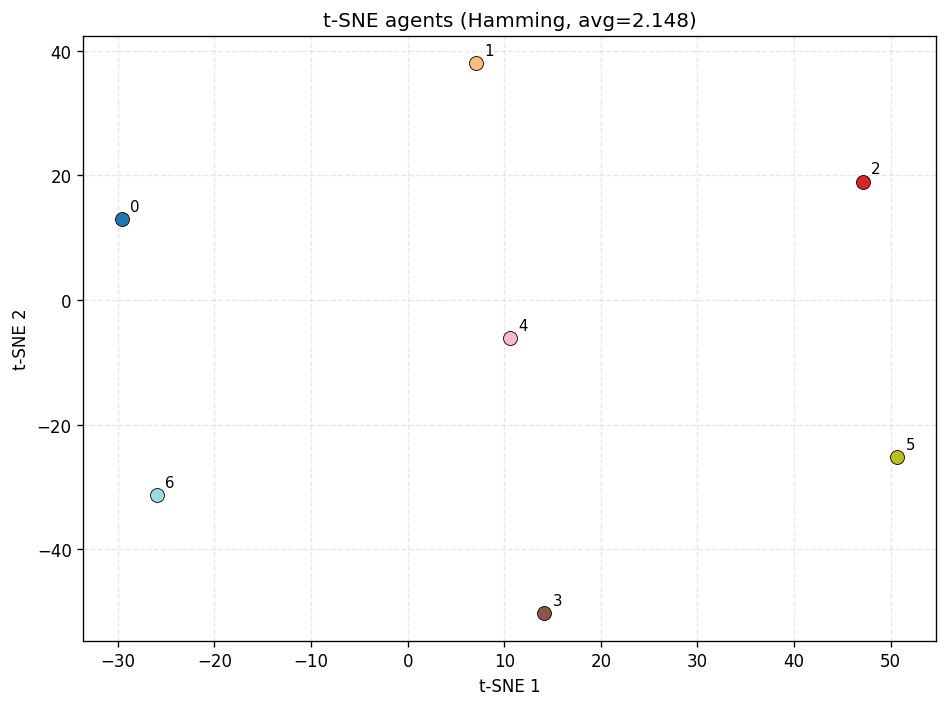
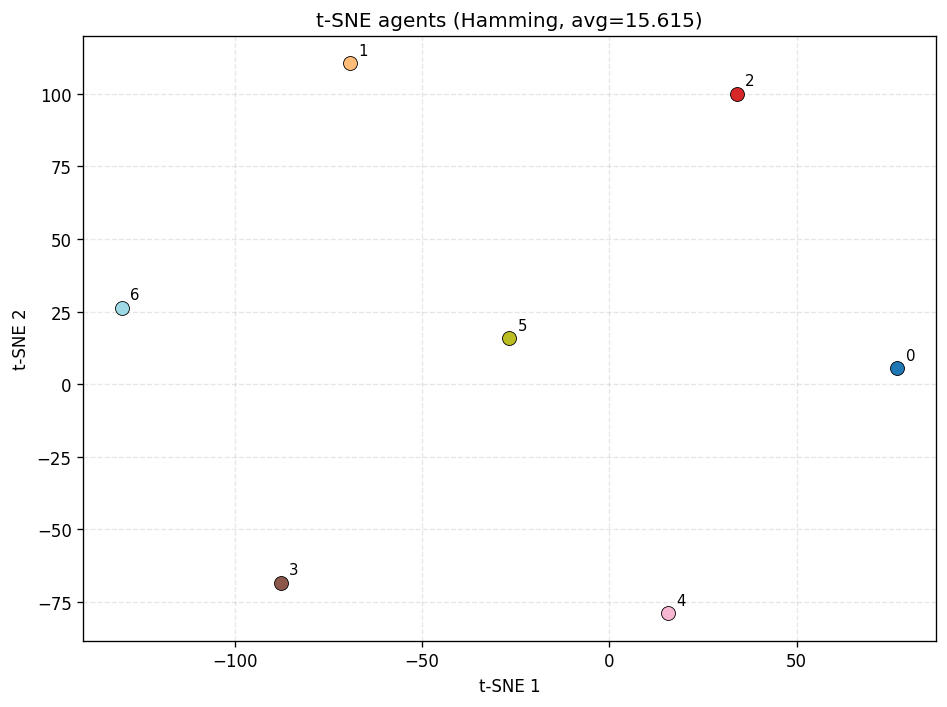
ajout range

diff --git a/source_code/main.py b/source_code/main.py
@@ -66,6 +66,15 @@ def main(cfg: DictConfig):
         except Exception:
             return None
 
+    def _get(*keys, default=None):
+        for key in keys:
+            v = agent_val(key)
+            if v is None:
+                v = cfg.get(key)
+            if v is not None:
+                return v
+        return default
+
     type_problem = cfg.problem.name if "problem" in cfg and "name" in cfg.problem else cfg.get("type_problem", "QUBO")
     type_problem = str(type_problem)
     type_problem_upper = type_problem.upper()
@@ -84,65 +93,45 @@ def main(cfg: DictConfig):
     nb_restarts = int(cfg.nb_restarts)
     nb_instances_test = int(cfg.nb_instances_test)
     seed = int(cfg.seed)
-    lambda_ = int(agent_val("lambda") or cfg.get("lambda") or cfg.get("lambda_") or 10)
+    lambda_ = int(_get("lambda", "lambda_", default=10))
     verbose = bool(cfg.get("verbose", True))
     budget = int(cfg.get("budget", 10000))
     visualization_enabled = bool(cfg.get("visualization", True))
-    advantage_cfg = agent_val("advantage") or cfg.get("advantage") or "baseline"
+    advantage_cfg = _get("advantage", default="baseline")
     if isinstance(advantage_cfg, DictConfig):
         advantage_cfg = OmegaConf.to_container(advantage_cfg, resolve=True)
-    no_interact = bool(agent_val("no_interact") or cfg.get("no_interact") or False)
-    no_repulsion = bool(agent_val("no_repulsion") or cfg.get("no_repulsion") or False)
-    decay_enabled = bool(agent_val("decay") or cfg.get("decay") or False)
-    enable_greedy_final = agent_val("enable_greedy_final")
-    if enable_greedy_final is None:
-        enable_greedy_final = cfg.get("enable_greedy_final", True)
-    enable_greedy_final = bool(enable_greedy_final)
-    M = int(agent_val("M") or cfg.get("M") or 1)
+    no_interact = bool(_get("no_interact", default=False))
+    no_repulsion = bool(_get("no_repulsion", default=False))
+    decay_enabled = bool(_get("decay", default=False))
+    enable_greedy_final = bool(_get("enable_greedy_final", default=True))
+    M = int(_get("M", default=1))
 
-    kernel_name = str(agent_val("kernel") or cfg.get("kernel") or "hk").lower()
+    kernel_name = str(_get("kernel", default="hk")).lower()
     kernel_cfg = _load_kernel_config(kernel_name, repo_root)
-    prob_eps_override = agent_val("prob_eps_clamp") or cfg.get("prob_eps_clamp")
+    prob_eps_override = _get("prob_eps_clamp")
     if prob_eps_override is not None:
         kernel_cfg["prob_eps_clamp"] = float(prob_eps_override)
-    natural_grad_override = agent_val("natural_grad") or cfg.get("natural_grad")
+    natural_grad_override = _get("natural_grad")
     if natural_grad_override is not None:
         kernel_cfg["natural_grad"] = bool(natural_grad_override)
-    bandwith_override = agent_val("bandwith_kernel") or cfg.get("bandwith_kernel")
+    bandwith_override = _get("bandwith_kernel")
     if bandwith_override is not None:
         kernel_cfg["bandwith_kernel"] = bandwith_override
 
     kernel_lr = kernel_cfg.get("epsilon_svgd")
     kernel_gamma = kernel_cfg.get("gamma")
-    epsilon_svgd = float(
-        agent_val("epsilon_svgd")
-        or cfg.get("epsilon_svgd")
-        or kernel_lr
-        or 0.5
-    )
-    svgd_gamma = float(
-        agent_val("gamma")
-        or cfg.get("gamma")
-        or kernel_gamma
-        or 10.0
-    )
+    _eps = _get("epsilon_svgd")
+    epsilon_svgd = float(_eps if _eps is not None else (kernel_lr if kernel_lr is not None else 0.5))
+    _gamma = _get("gamma")
+    svgd_gamma = float(_gamma if _gamma is not None else (kernel_gamma if kernel_gamma is not None else 10.0))
 
     decay_default_start_ratio = 0.0 if decay_enabled else 0.8
     decay_default_min_factor = 0.05 if decay_enabled else 0.1
-    decay_start_ratio = float(
-        agent_val("decay_start_ratio")
-        or cfg.get("decay_start_ratio")
-        or decay_default_start_ratio
-    )
-    decay_min_factor = float(
-        agent_val("min_factor")
-        or agent_val("decay_min_factor")
-        or cfg.get("min_factor")
-        or cfg.get("decay_min_factor")
-        or decay_default_min_factor
-    )
-    adaptive_lambda = bool(agent_val("adaptive_lambda") or cfg.get("adaptive_lambda") or False)
-    lr_lambda = float(agent_val("lr_lambda") or cfg.get("lr_lambda") or 0.1)
+    decay_start_ratio = float(_get("decay_start_ratio", default=decay_default_start_ratio))
+    decay_min_factor = float(_get("min_factor", "decay_min_factor", default=decay_default_min_factor))
+    adaptive_lambda = bool(_get("adaptive_lambda", default=False))
+    lr_lambda = float(_get("lr_lambda", default=0.1))
+    lambda_range = float(_get("lambda_range", default=0.6))
 
     print(
         f"Config: problem={type_problem} dim={dim} type_instance={type_instance} | "
@@ -254,6 +243,7 @@ def main(cfg: DictConfig):
         is_nk3=(type_problem_upper == "NK3"),
         adaptive_lambda=adaptive_lambda,
         lr_lambda=lr_lambda,
+        lambda_range=lambda_range,
     ).to(device)
     if not enable_greedy_final:
         strategy.sample_greedy_agent_solutions = None

diff --git a/source_code/eda_strategies/MultiAgentUnivariate/SVGD_EDA.py b/source_code/eda_strategies/MultiAgentUnivariate/SVGD_EDA.py
@@ -47,6 +47,7 @@ class SVGD_EDA(Abstract_EDA, nn.Module):
         is_nk3=False,
         adaptive_lambda=False,
         lr_lambda=0.1,
+        lambda_range=0.6,
     ):
         self.M = M
         self.N = N
@@ -119,10 +120,11 @@ class SVGD_EDA(Abstract_EDA, nn.Module):
         self.lambda_per_agent_init = self.lambda_per_agent
         self.adaptive_lambda = bool(adaptive_lambda)
         if self.adaptive_lambda:
-            self.lr_lambda = float(lr_lambda)
-            self.delta_base = round(self.lr_lambda * self.lambda_per_agent_init)
-            self.lambda_min_per_agent = max(1, round(0.4 * self.lambda_per_agent_init))
-            self.lambda_max_per_agent = 2 * self.lambda_per_agent_init - self.lambda_min_per_agent
+            self.lr_lambda    = float(lr_lambda)
+            self.lambda_range = float(lambda_range)
+            self.delta_base   = round(self.lr_lambda * self.lambda_per_agent_init)
+            self.lambda_min_per_agent = max(1, round((1 - self.lambda_range) * self.lambda_per_agent_init))
+            self.lambda_max_per_agent = round((1 + self.lambda_range) * self.lambda_per_agent_init)
         self.agents = []
 
         kernel_impl = self._build_svgd_kernel(self.kernel_name, self.kernel_params)

diff --git a/source_code/eda_strategies/FactoryStrategyEA.py b/source_code/eda_strategies/FactoryStrategyEA.py
@@ -32,6 +32,7 @@ class FactoryStrategyEA:
         is_nk3=False,
         adaptive_lambda=False,
         lr_lambda=0.1,
+        lambda_range=0.6,
     ):
         match typeStrategy:
             case "UMDA":
@@ -59,6 +60,7 @@ class FactoryStrategyEA:
                     is_nk3=is_nk3,
                     adaptive_lambda=adaptive_lambda,
                     lr_lambda=lr_lambda,
+                    lambda_range=lambda_range,
                 )
             case _:
                 raise ValueError(f"Unknown strategy type: {typeStrategy}")